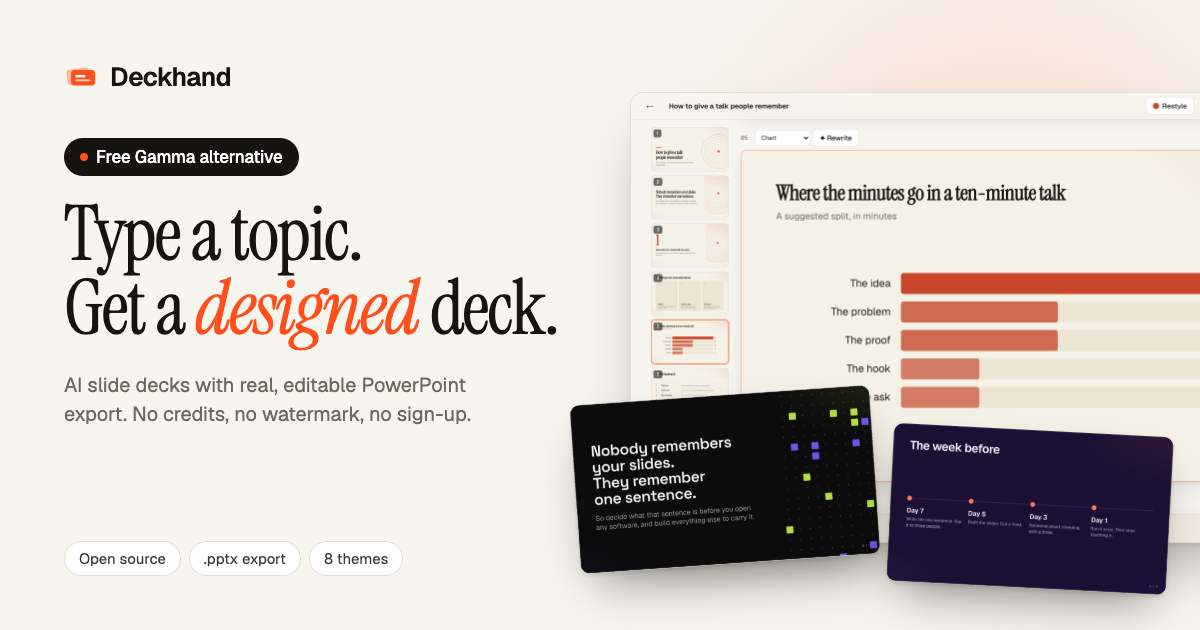
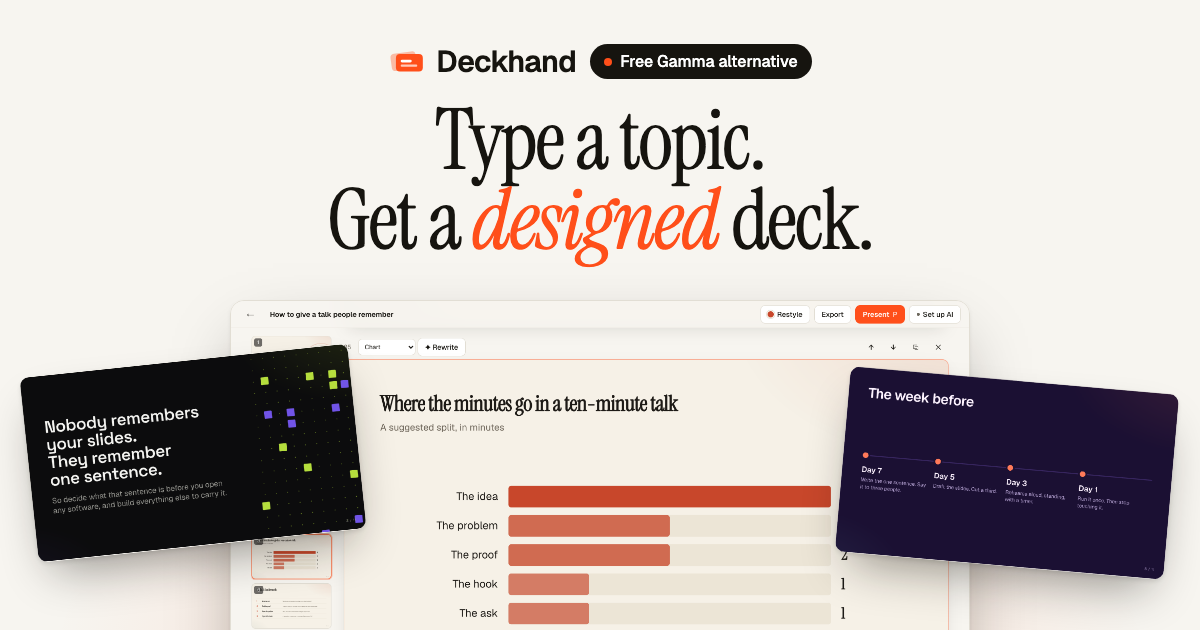
Prepare 0.1.2: centred cover that survives the Publik card crop

diff --git a/docs/media/src/cover.html b/docs/media/src/cover.html
@@ -1,0 +1,34 @@
+<!doctype html><html><head><meta charset="utf-8">
+<link href="https://fonts.googleapis.com/css2?family=Geist:wght@400;500;600&family=Instrument+Serif:ital@0;1&display=swap" rel="stylesheet">
+<style>
+:root{--bg:#f7f5f0;--fg:#16140f;--mute:#6d685d;--accent:#ff4f1a;--line:#e2ded4}
+*{margin:0;box-sizing:border-box}
+html,body{width:1200px;height:630px;overflow:hidden;background:var(--bg)}
+body{font-family:Geist,system-ui,sans-serif;color:var(--fg);position:relative}
+.glow{position:absolute;left:50%;top:330px;width:1100px;height:700px;transform:translateX(-50%);border-radius:50%;background:radial-gradient(closest-side,rgba(255,79,26,.18),rgba(255,79,26,0))}
+.top{position:absolute;left:0;right:0;top:42px;display:flex;flex-direction:column;align-items:center;text-align:center}
+.row{display:flex;align-items:center;gap:14px}
+.brand{display:flex;align-items:center;gap:10px;font-weight:600;font-size:30px;letter-spacing:-.02em}
+.pill{display:inline-flex;align-items:center;gap:8px;padding:7px 14px;border-radius:999px;background:var(--fg);color:#fff;font-size:16px;font-weight:500}
+.pill i{width:8px;height:8px;border-radius:50%;background:var(--accent)}
+h1{font-family:"Instrument Serif",serif;font-weight:400;font-size:84px;line-height:.95;letter-spacing:-.025em;margin-top:20px}
+h1 em{color:var(--accent)}
+.shot{position:absolute;left:50%;top:300px;width:740px;transform:translateX(-50%);border-radius:14px;overflow:hidden;border:1px solid var(--line);box-shadow:0 2px 4px rgba(20,16,8,.06),0 30px 70px -18px rgba(20,16,8,.4);z-index:2}
+.shot img{display:block;width:100%}
+.card{position:absolute;border-radius:10px;overflow:hidden;box-shadow:0 2px 4px rgba(0,0,0,.1),0 24px 48px -16px rgba(20,16,8,.45);z-index:3}
+.card img{display:block;width:100%}
+.c1{left:28px;top:360px;width:330px;transform:rotate(-6deg)}
+.c2{right:28px;top:380px;width:330px;transform:rotate(5deg)}
+</style></head><body>
+<div class="glow"></div>
+<div class="top">
+  <div class="row">
+    <div class="brand"><svg width="38" height="38" viewBox="0 0 24 24"><rect x="2" y="6" width="16" height="11" rx="2.5" fill="#ff4f1a" opacity=".35" transform="rotate(-8 10 12)"/><rect x="5" y="7" width="17" height="11" rx="2.5" fill="#ff4f1a"/><rect x="8" y="10.5" width="7" height="1.8" rx=".9" fill="#fff"/><rect x="8" y="13.6" width="10.5" height="1.4" rx=".7" fill="#fff" opacity=".7"/></svg>Deckhand</div>
+    <div class="pill"><i></i>Free Gamma alternative</div>
+  </div>
+  <h1>Type a topic.<br>Get a <em>designed</em> deck.</h1>
+</div>
+<div class="shot"><img src="editor.png"></div>
+<div class="card c1"><img src="cobalt.png"></div>
+<div class="card c2"><img src="dusk.png"></div>
+</body></html>

diff --git a/lib/publik.ts b/lib/publik.ts
@@ -8,7 +8,7 @@ import { existsSync, readFileSync } from "node:fs";
 import { join } from "node:path";
 
 export const APP_SLUG = process.env.PUBLIK_APP_SLUG?.trim() || "deckhand";
-export const APP_VERSION = "0.1.1";
+export const APP_VERSION = "0.1.2";
 export const DEFAULT_BASE_URL = "https://publikhq.com/api/v1";
 export const BASE_URL = process.env.PUBLIK_API_BASE_URL?.trim() || DEFAULT_BASE_URL;
 /** Ask for a tier, never a vendor model name. */
